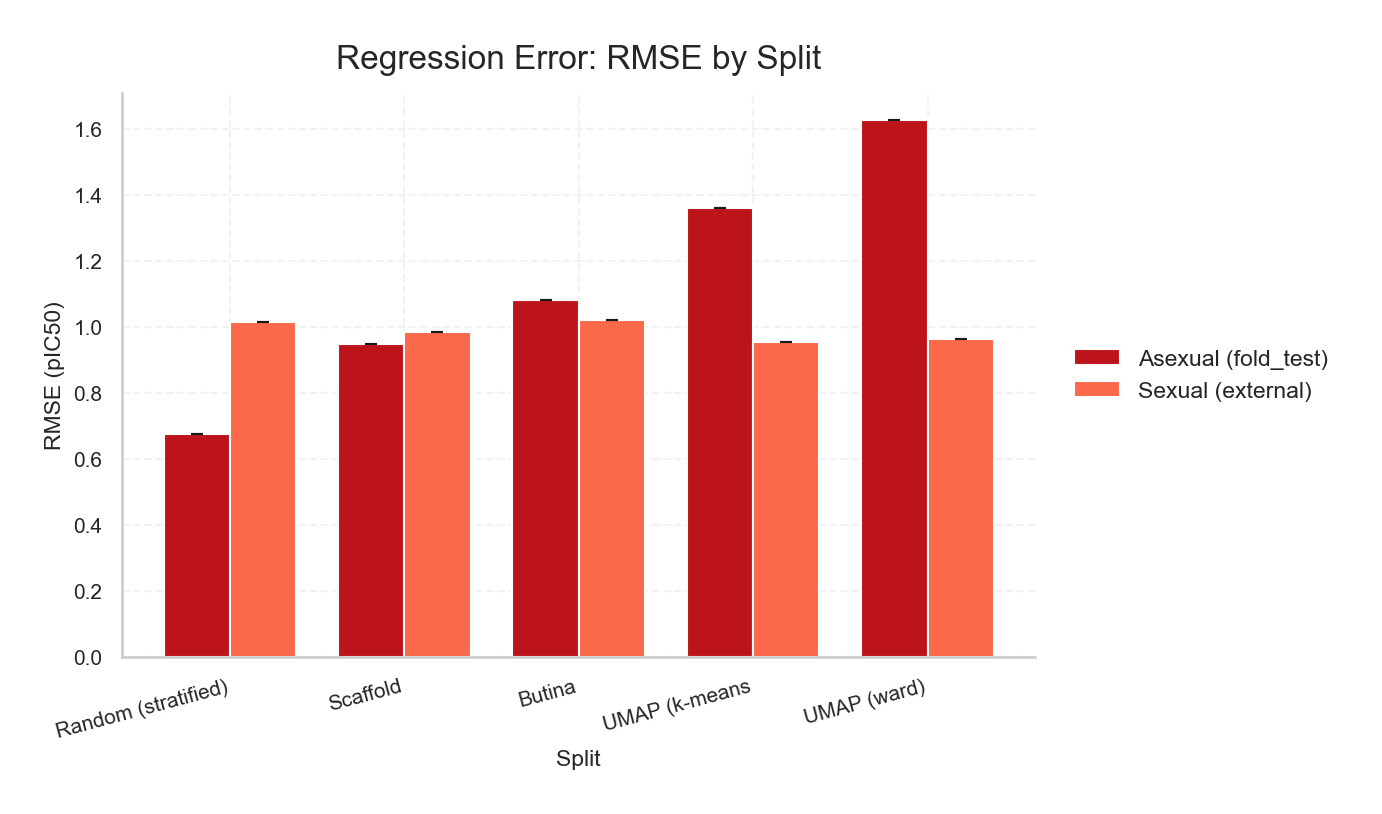
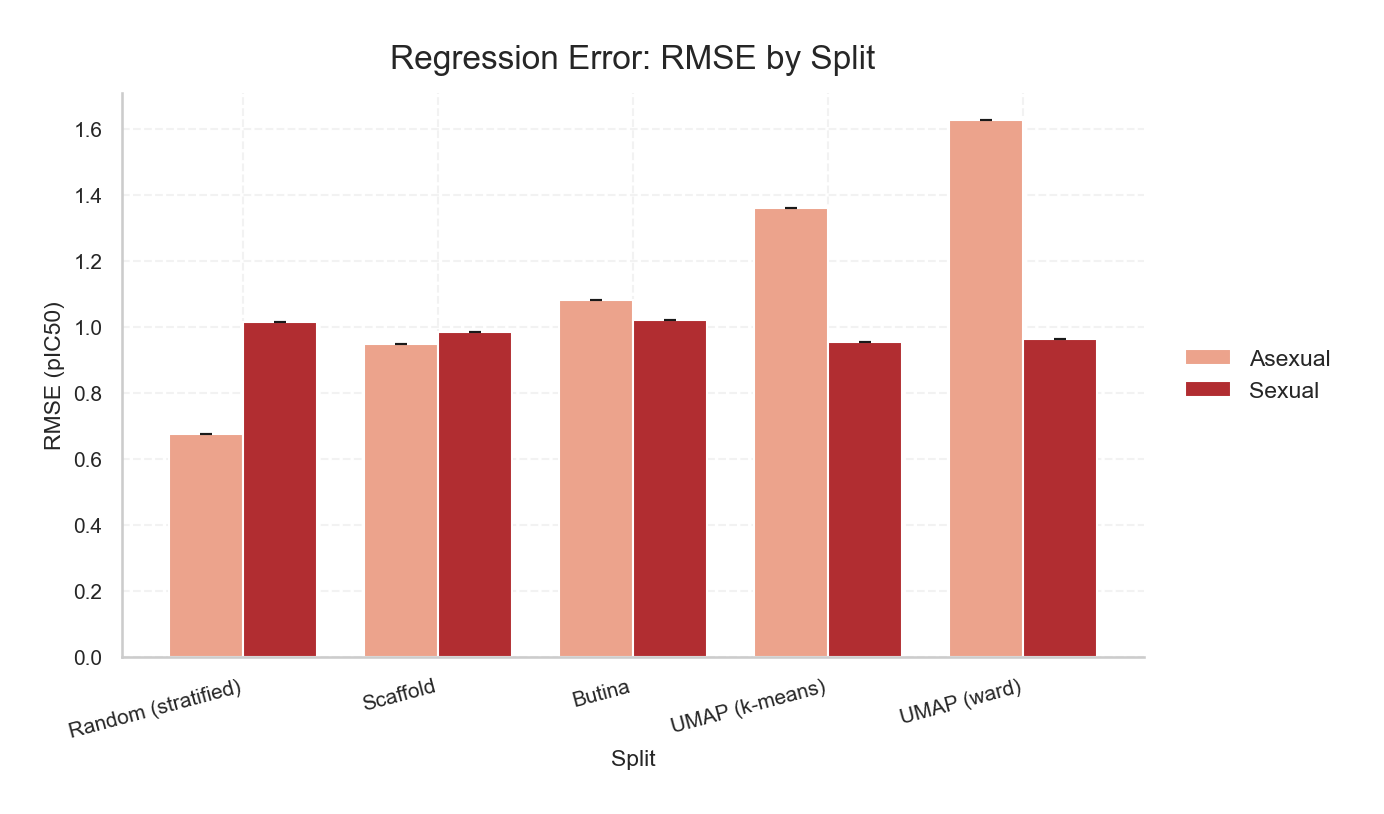
changes to results colors

diff --git a/p2_models/3 - analysis_test_results/figures/results_bar_charts/results_barcharts.py b/p2_models/3 - analysis_test_results/figures/results_bar_charts/results_barcharts.py
@@ -37,11 +37,11 @@ plt.rcParams.update({
     "ytick.labelsize": 10,
 })
 
-# Use seaborn Reds palette for consistent colors
-reds = sns.color_palette("Reds", 9)
-COLOR_ASEX = reds[7] 
-COLOR_SEX = reds[4] 
-COLOR_GAP = reds[8]
+# --- Colors ---
+# Requested brand colors
+COLOR_ASEX = "#eca38c"   # asexual
+COLOR_SEX  = "#b12d31"   # sexual
+COLOR_GAP  = "#6e1a1d"   # gap/delta
 
 # Split order & display labels (as requested)
 SPLIT_ORDER = ["random", "scaffold", "butina", "umap_kmeans", "umap_ward"]
@@ -49,7 +49,7 @@ SPLIT_DISPLAY = {
     "random": "Random (stratified)",
     "scaffold": "Scaffold",
     "butina": "Butina",
-    "umap_kmeans": "UMAP (k-means",
+    "umap_kmeans": "UMAP (k-means)",
     "umap_ward": "UMAP (ward)",
 }
 
@@ -180,9 +180,9 @@ def grouped_bar_figure(metric_df, ylabel, title, out_path, ylim=None, zero_line=
     bar_w = 0.38
     fig, ax = plt.subplots(figsize=(9, 5.2))
     ax.bar(x - bar_w/2, vals_a, width=bar_w, yerr=sds_a, capsize=3,
-           color=COLOR_ASEX, label="Asexual (fold_test)")
+           color=COLOR_ASEX, label="Asexual")
     ax.bar(x + bar_w/2, vals_b, width=bar_w, yerr=sds_b, capsize=3,
-           color=COLOR_SEX,  label="Sexual (external)")
+           color=COLOR_SEX,  label="Sexual")
 
     ax.set_xticks(x)
     ax.set_xticklabels([SPLIT_DISPLAY[s] for s in SPLITS], rotation=15, ha="right")
@@ -229,7 +229,7 @@ def delta_bar_figure(df_hit_agg, ylabel, title, out_path):
 if "hit" in agg:
     grouped_bar_figure(
         metric_df=agg["hit"],
-        ylabel="HitRate@100",
+        ylabel="HitRate at 100",
         title="Early Recognition: Hit Rate at 100 by Split",
         out_path=OUT_DIR / "panel_hit_at_100.png",
         ylim=(0,1)
@@ -269,7 +269,7 @@ if "rho" in agg:
 if "hit" in agg:
     delta_bar_figure(
         df_hit_agg=agg["hit"],
-        ylabel="Change in Hit Rate @ 100 Sexual between Asexual Tests",
+        ylabel="Change in Hit Rate at 100 Sexual between Asexual Tests",
         title="Change in Hit Rate at 100 between Sexual and Asexual Test by Split",
         out_path=OUT_DIR / "panel_delta_hit_at_100.png",
     )
